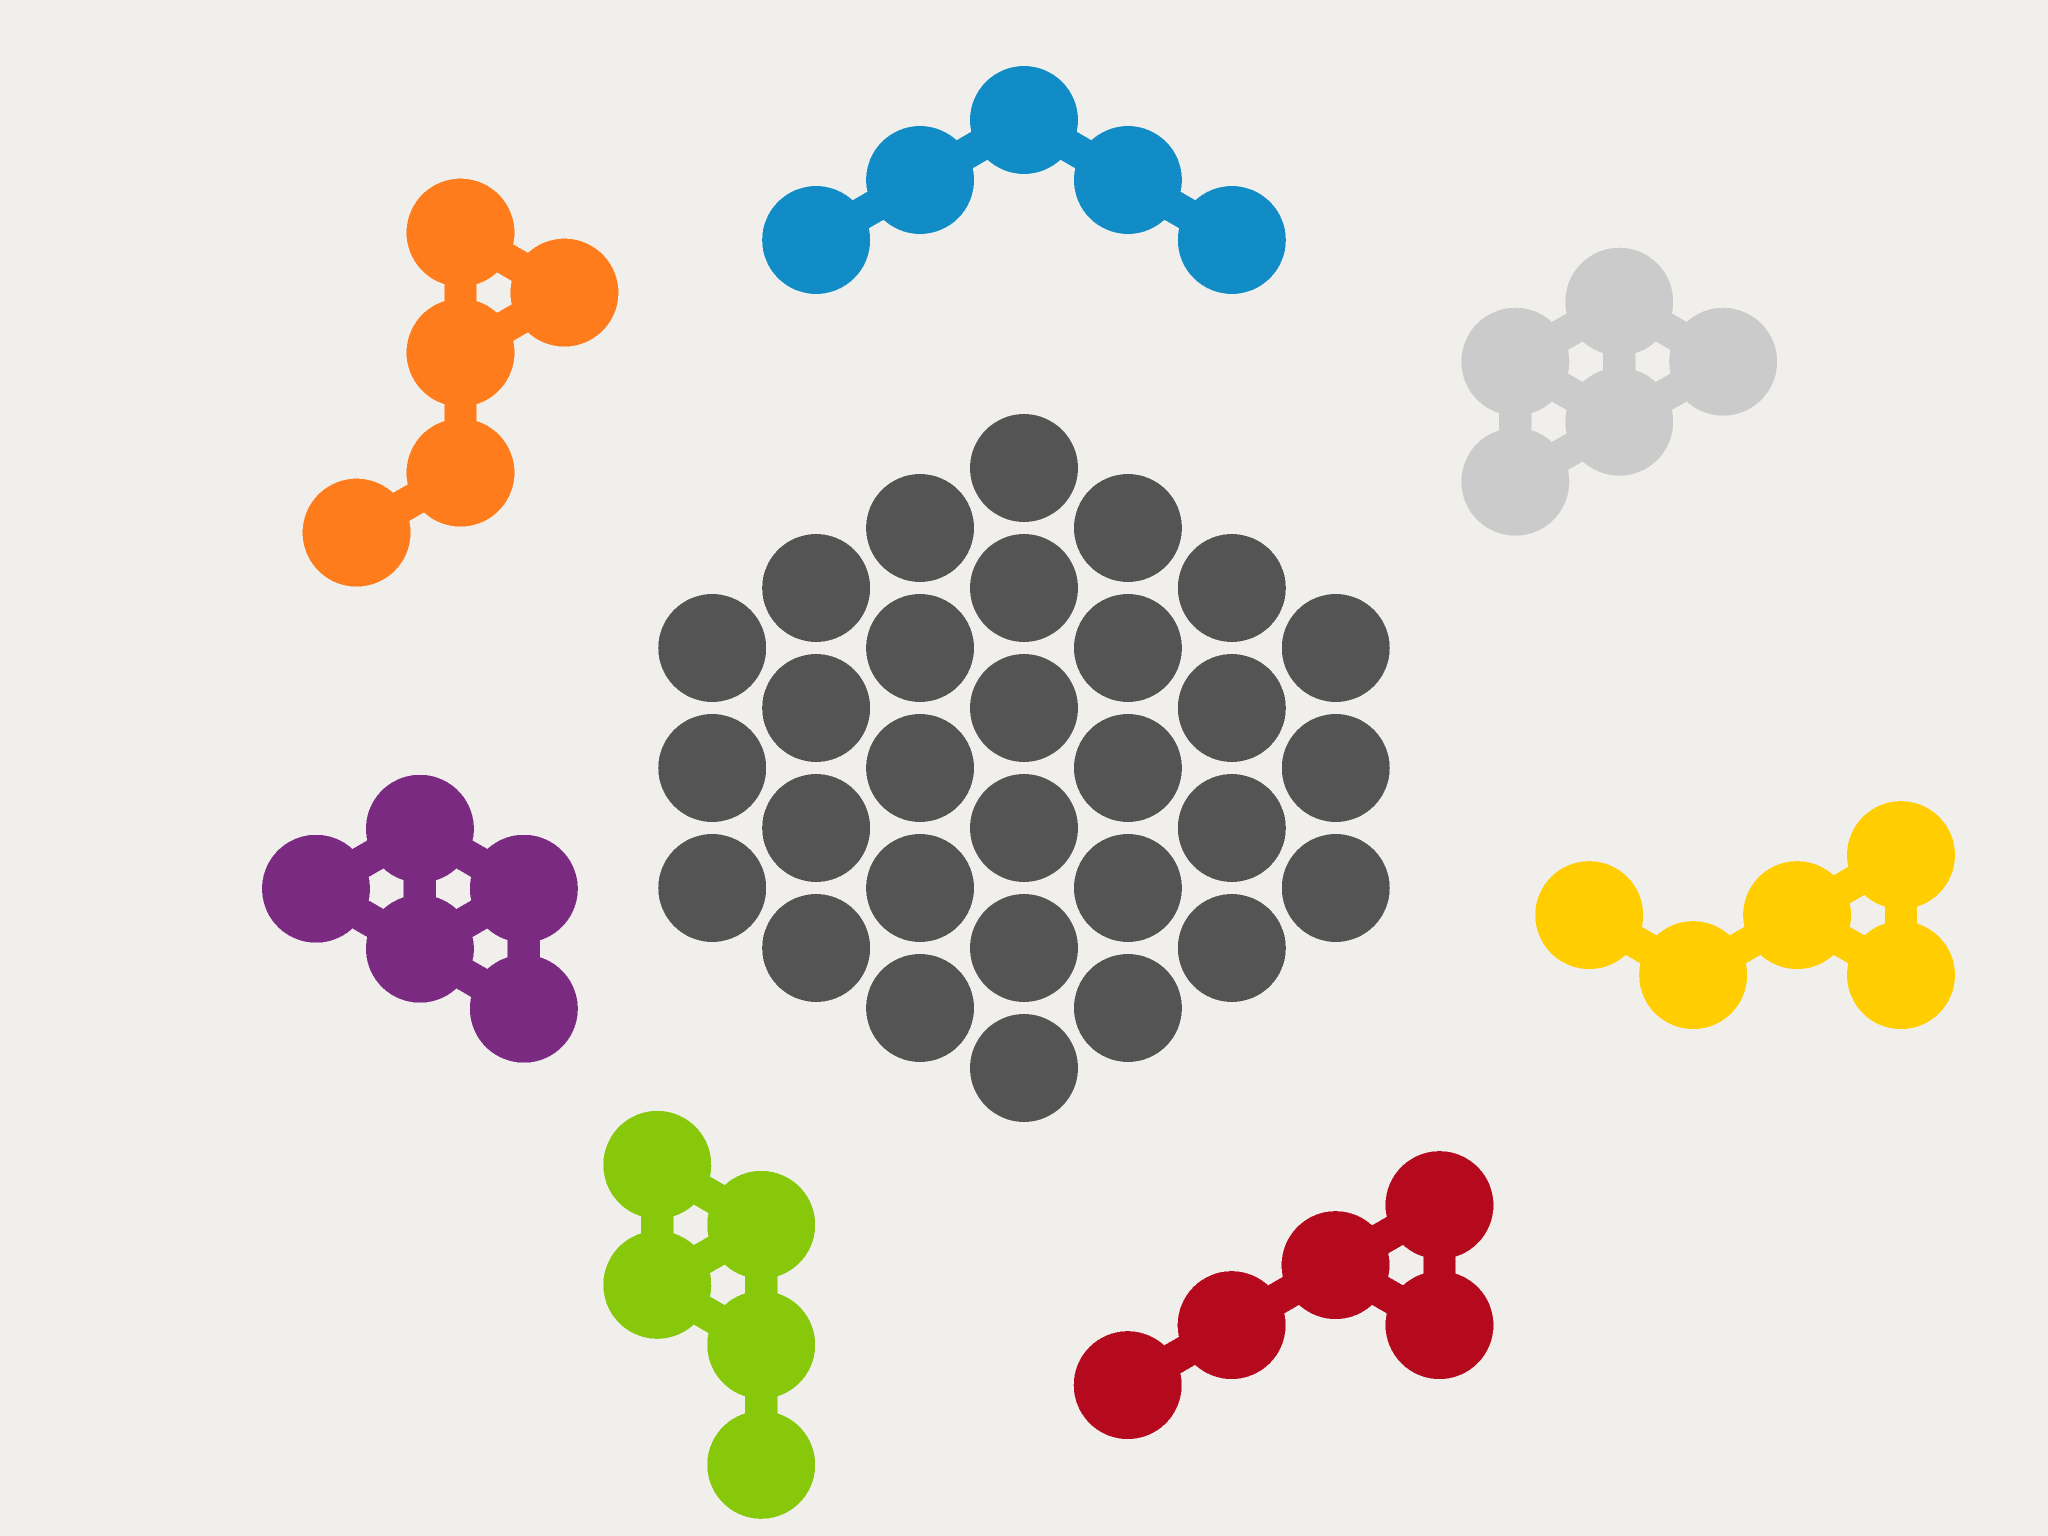
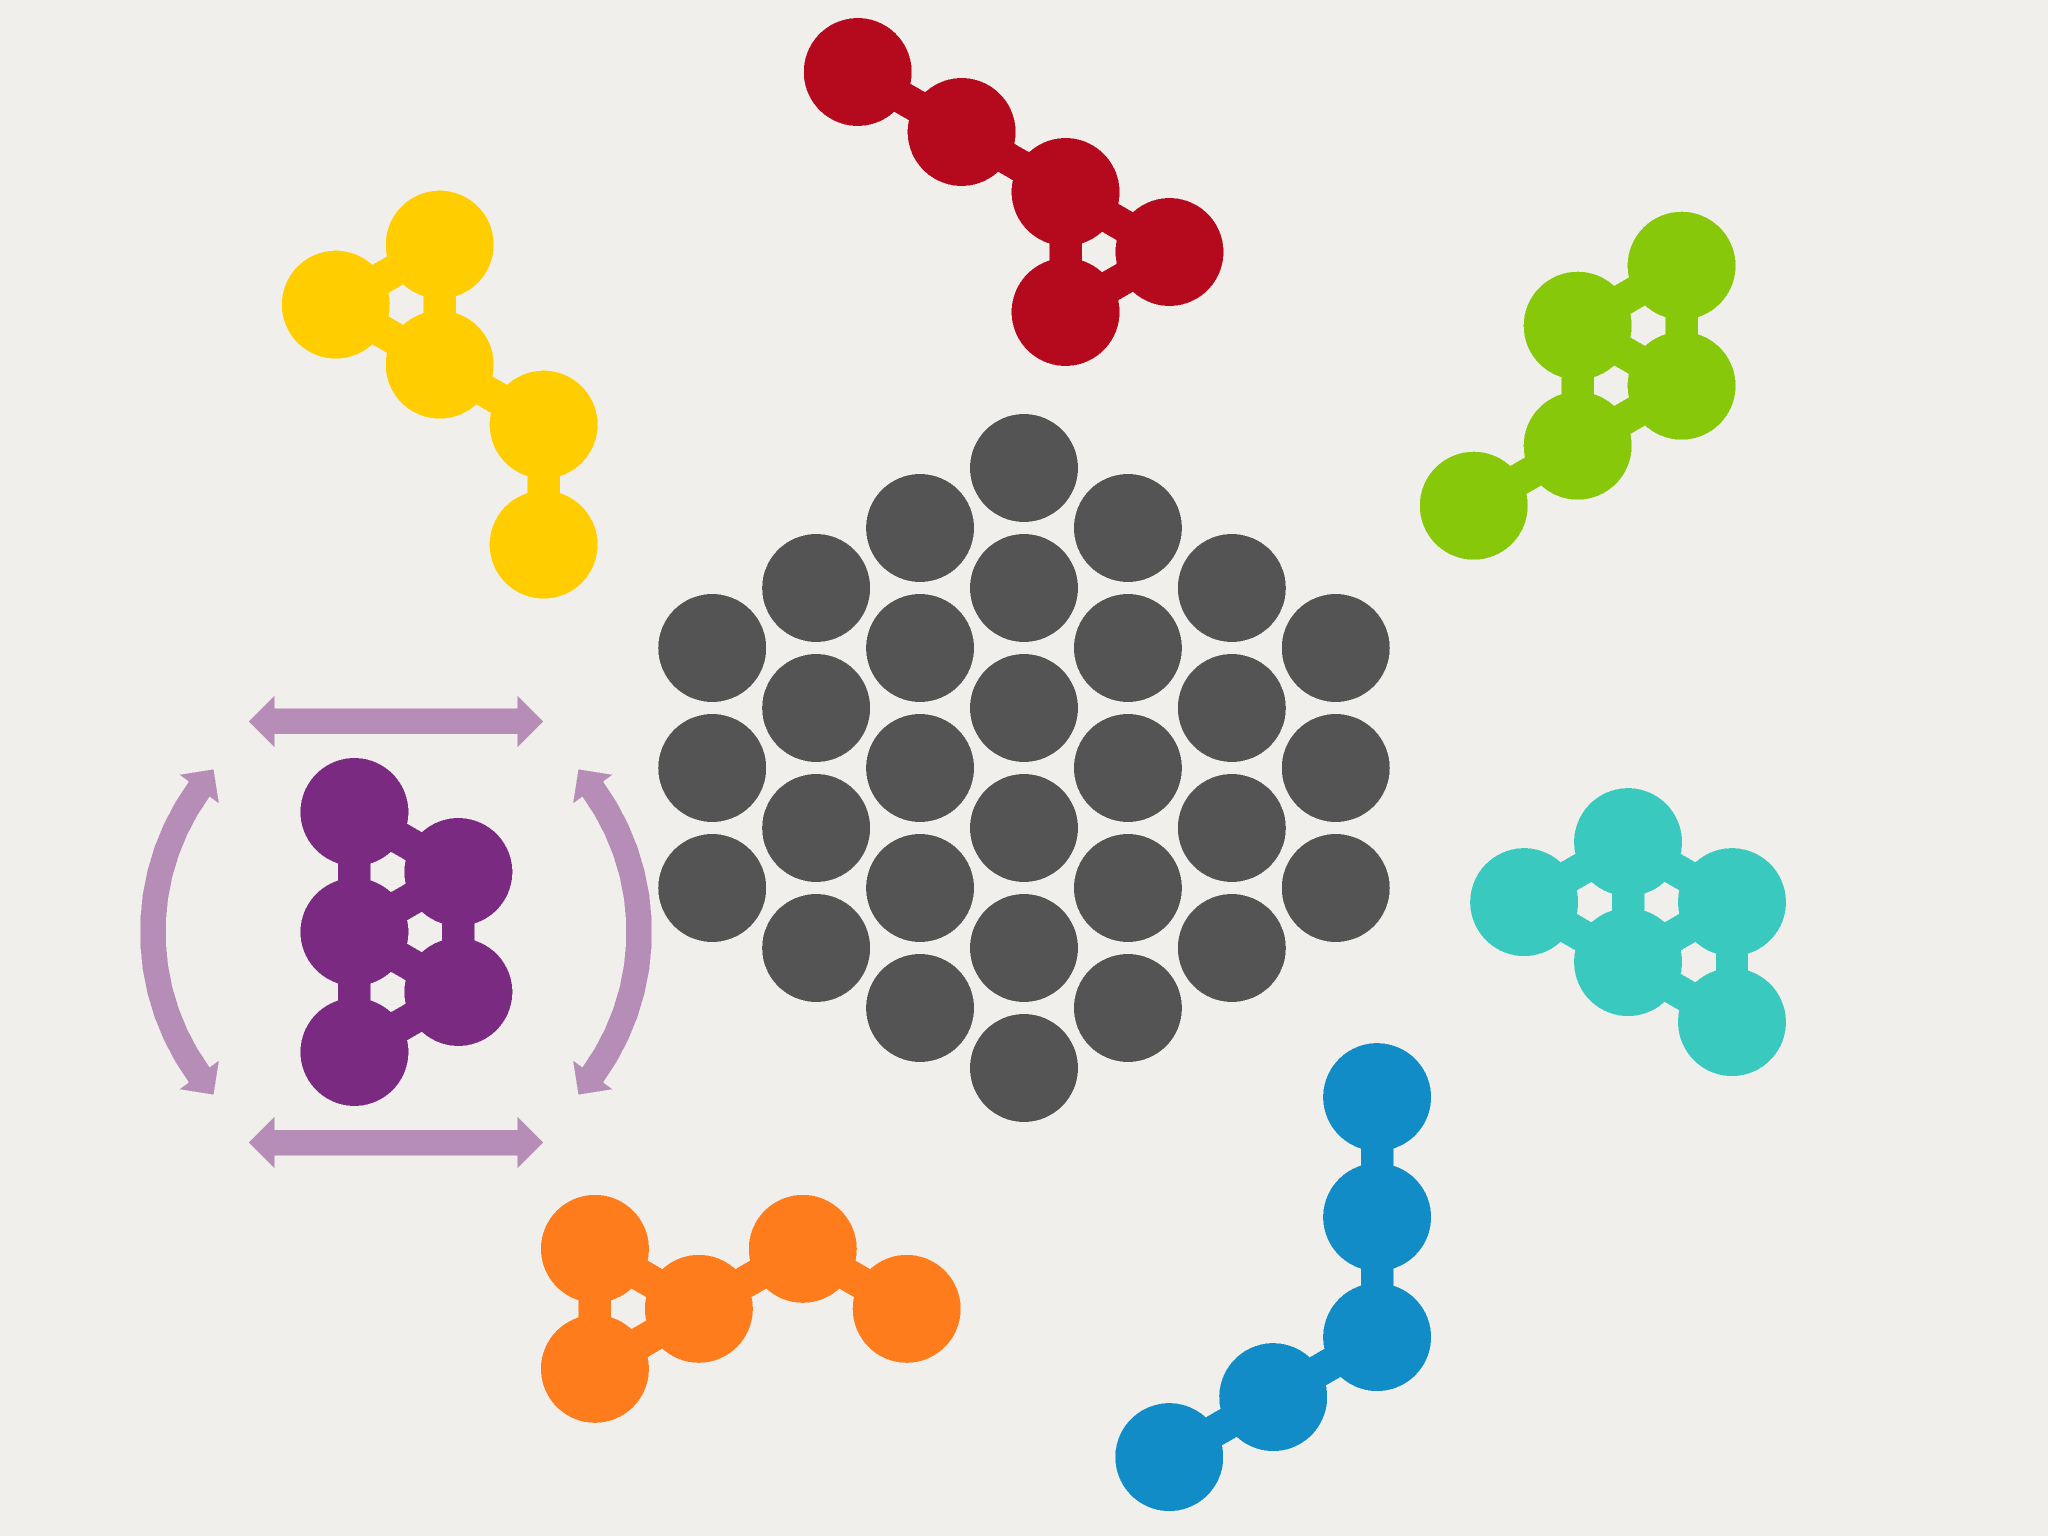
updated molicula description

diff --git a/projects/molicula.html b/projects/molicula.html
@@ -26,11 +26,12 @@
     </header>
     <div role="main" class="content">
       <h2>Molicula</h2><img src="/img/projects/molicula/screenshot0.png" class="wide">
-      <h3>Description</h3><p>Molicula is simple puzzle game. Arrange pieces into a grid leaving a different piece out each time.</p>
+      <h3>Description</h3><p>Molicula is simple puzzle game. Rotate and flip the pieces to fill the grid. Only 6 out of the 7 pieces are required to complete the grid. Which piece you leave out determines the difficulty of finding a solution.</p>
+<p>Can you find all solutions?</p>
 <ul>
-<li>Beautiful graphics</li>
+<li>Simple graphics</li>
 <li>Intuitive gestures</li>
-<li>120 unique solutions</li>
+<li>Over 40 unique solutions</li>
 </ul>
 <p>Molicula runs on iPad 2 and higher.</p>
 
